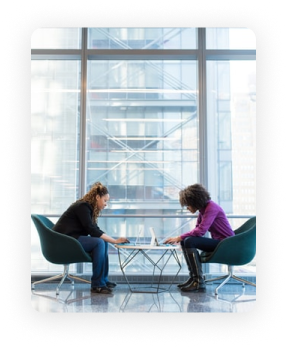
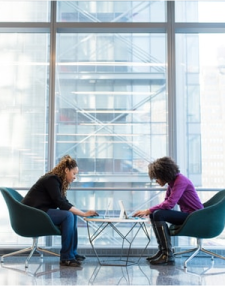
last update on gallery

diff --git a/src/components/sections/Gallery.jsx b/src/components/sections/Gallery.jsx
@@ -1,6 +1,21 @@
 import { Fade } from "react-reveal"
+import desktopCard1 from '../../assets/Sections/Gallery/desktop/Card.png'
+import desktopCard2 from '../../assets/Sections/Gallery/desktop/Card-1.png'
+import desktopCard3 from '../../assets/Sections/Gallery/desktop/Card-2.png'
+import desktopCard4 from '../../assets/Sections/Gallery/desktop/Card-3.png'
+import desktopCard5 from '../../assets/Sections/Gallery/desktop/Card-4.png'
+import desktopCard6 from '../../assets/Sections/Gallery/desktop/Card-5.png'
+import desktopCard7 from '../../assets/Sections/Gallery/desktop/Card-6.png'
+import mobileCar1 from '../../assets/Sections/Gallery/mobile/Card-1.png'
+import mobileCar2 from '../../assets/Sections/Gallery/mobile/Card-2.png'
+import mobileCar3 from '../../assets/Sections/Gallery/mobile/Card-3.png'
+import mobileCar4 from '../../assets/Sections/Gallery/mobile/Card-4.png'
 
 function Gallery () {
+    const firstDivOnDesktop = [ desktopCard1, desktopCard2, desktopCard3, desktopCard4 ]
+    const mobileCards = [ mobileCar1, mobileCar2, mobileCar3, mobileCar4 ]
+    const secondDivOnDesktop = [ desktopCard5, desktopCard6, desktopCard7 ]
+
     return (
         <div>
             <Fade bottom>
@@ -13,6 +28,15 @@ function Gallery () {
                         It's only a keystroke away.
                     </p>
                 </Fade>
+            </div>
+            <div className="hidden lg:flex justify-center gap-x-8">
+                {
+                    firstDivOnDesktop.map((image, index) => (
+                        <>
+                            <img src={image} className="rounded-xl h-60" alt={'card ' + index} />
+                        </>
+                    ))
+                }
             </div>
         </div>
     )
